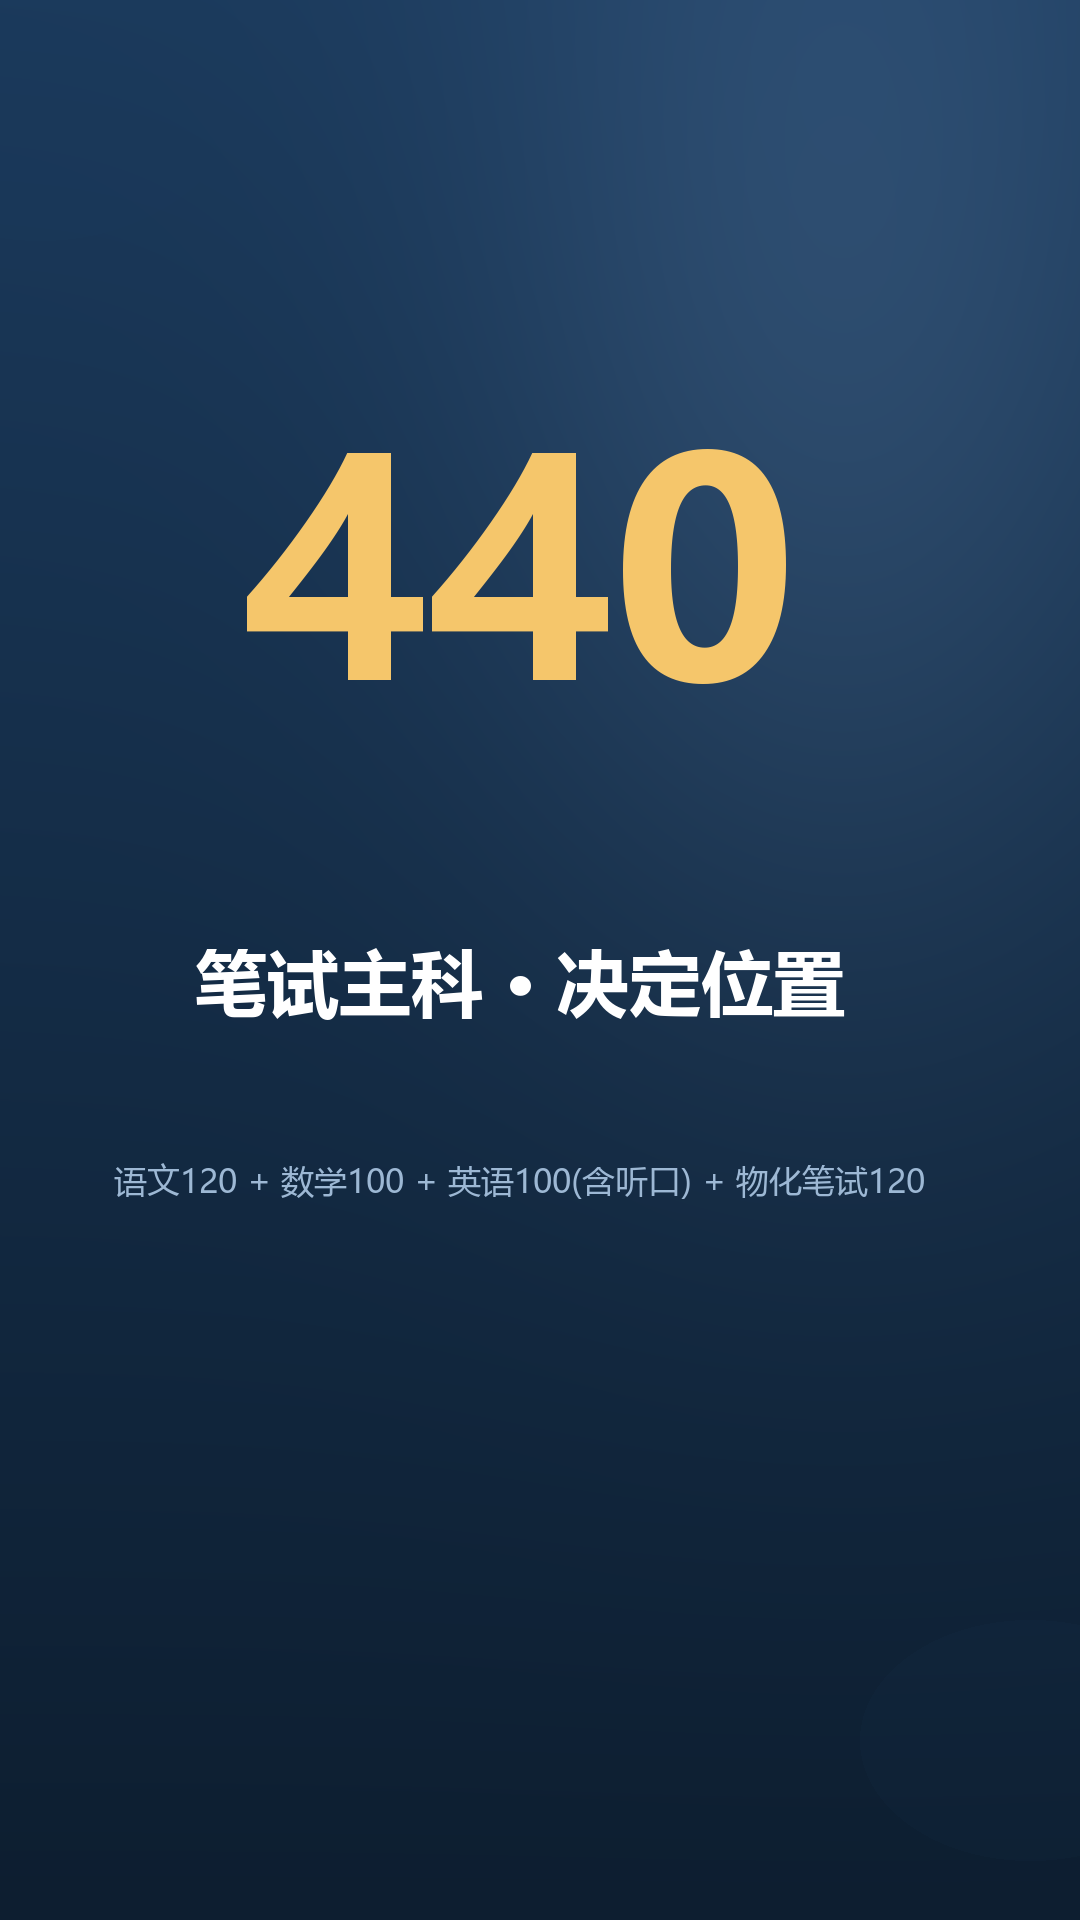
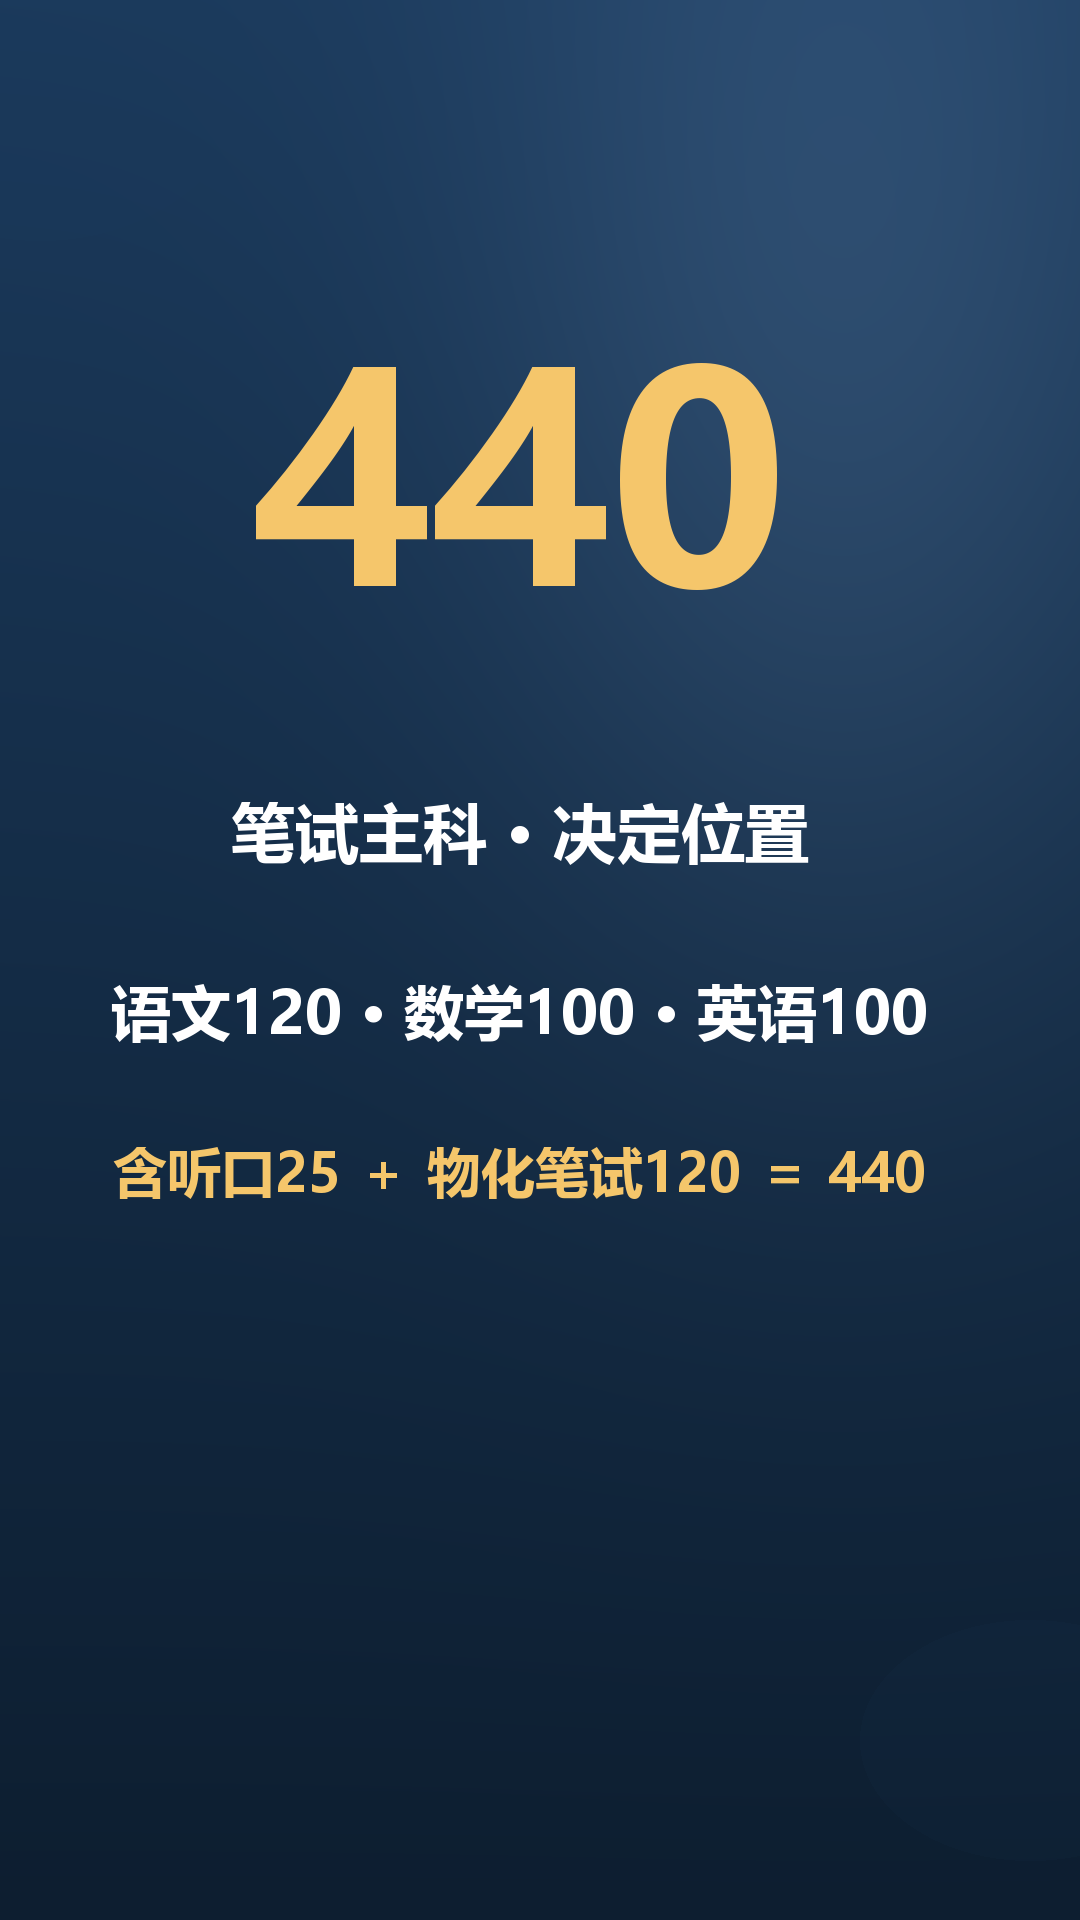
docs: S1抖音镜头03科目构成明细放大为视觉重点(白大字+金色等式)

diff --git a/docs/03-内容创作-深圳中考志愿填报/P1-政策解码器/P1-2-计分规则拆解/子任务S1-630构成与科目分值/03.抖音/_build_s1_dy_shots.py b/docs/03-内容创作-深圳中考志愿填报/P1-政策解码器/P1-2-计分规则拆解/子任务S1-630构成与科目分值/03.抖音/_build_s1_dy_shots.py
@@ -70,11 +70,12 @@ shot("S1-630构成-抖音-镜头02-Hook-1080x1920.png", [
     ("其实一句话就讲得完", 1120, 44, LIGHT, False),
 ], 1)
 
-# 镜03 主科 440
+# 镜03 主科 440（科目构成放大为视觉重点）
 shot("S1-630构成-抖音-镜头03-主科440-1080x1920.png", [
-    ("440", 560, 300, GOLD, True),
-    ("笔试主科 · 决定位置", 980, 72, WHITE, True),
-    ("语文120 + 数学100 + 英语100(含听口) + 物化笔试120", 1180, 40, LIGHT, False),
+    ("440", 470, 290, GOLD, True),
+    ("笔试主科 · 决定位置", 830, 64, WHITE, True),
+    ("语文120 · 数学100 · 英语100", 1010, 60, WHITE, True),
+    ("含听口25 ＋ 物化笔试120 ＝ 440", 1170, 56, GOLD, True),
 ], 2)
 
 # 镜04 实验 20
